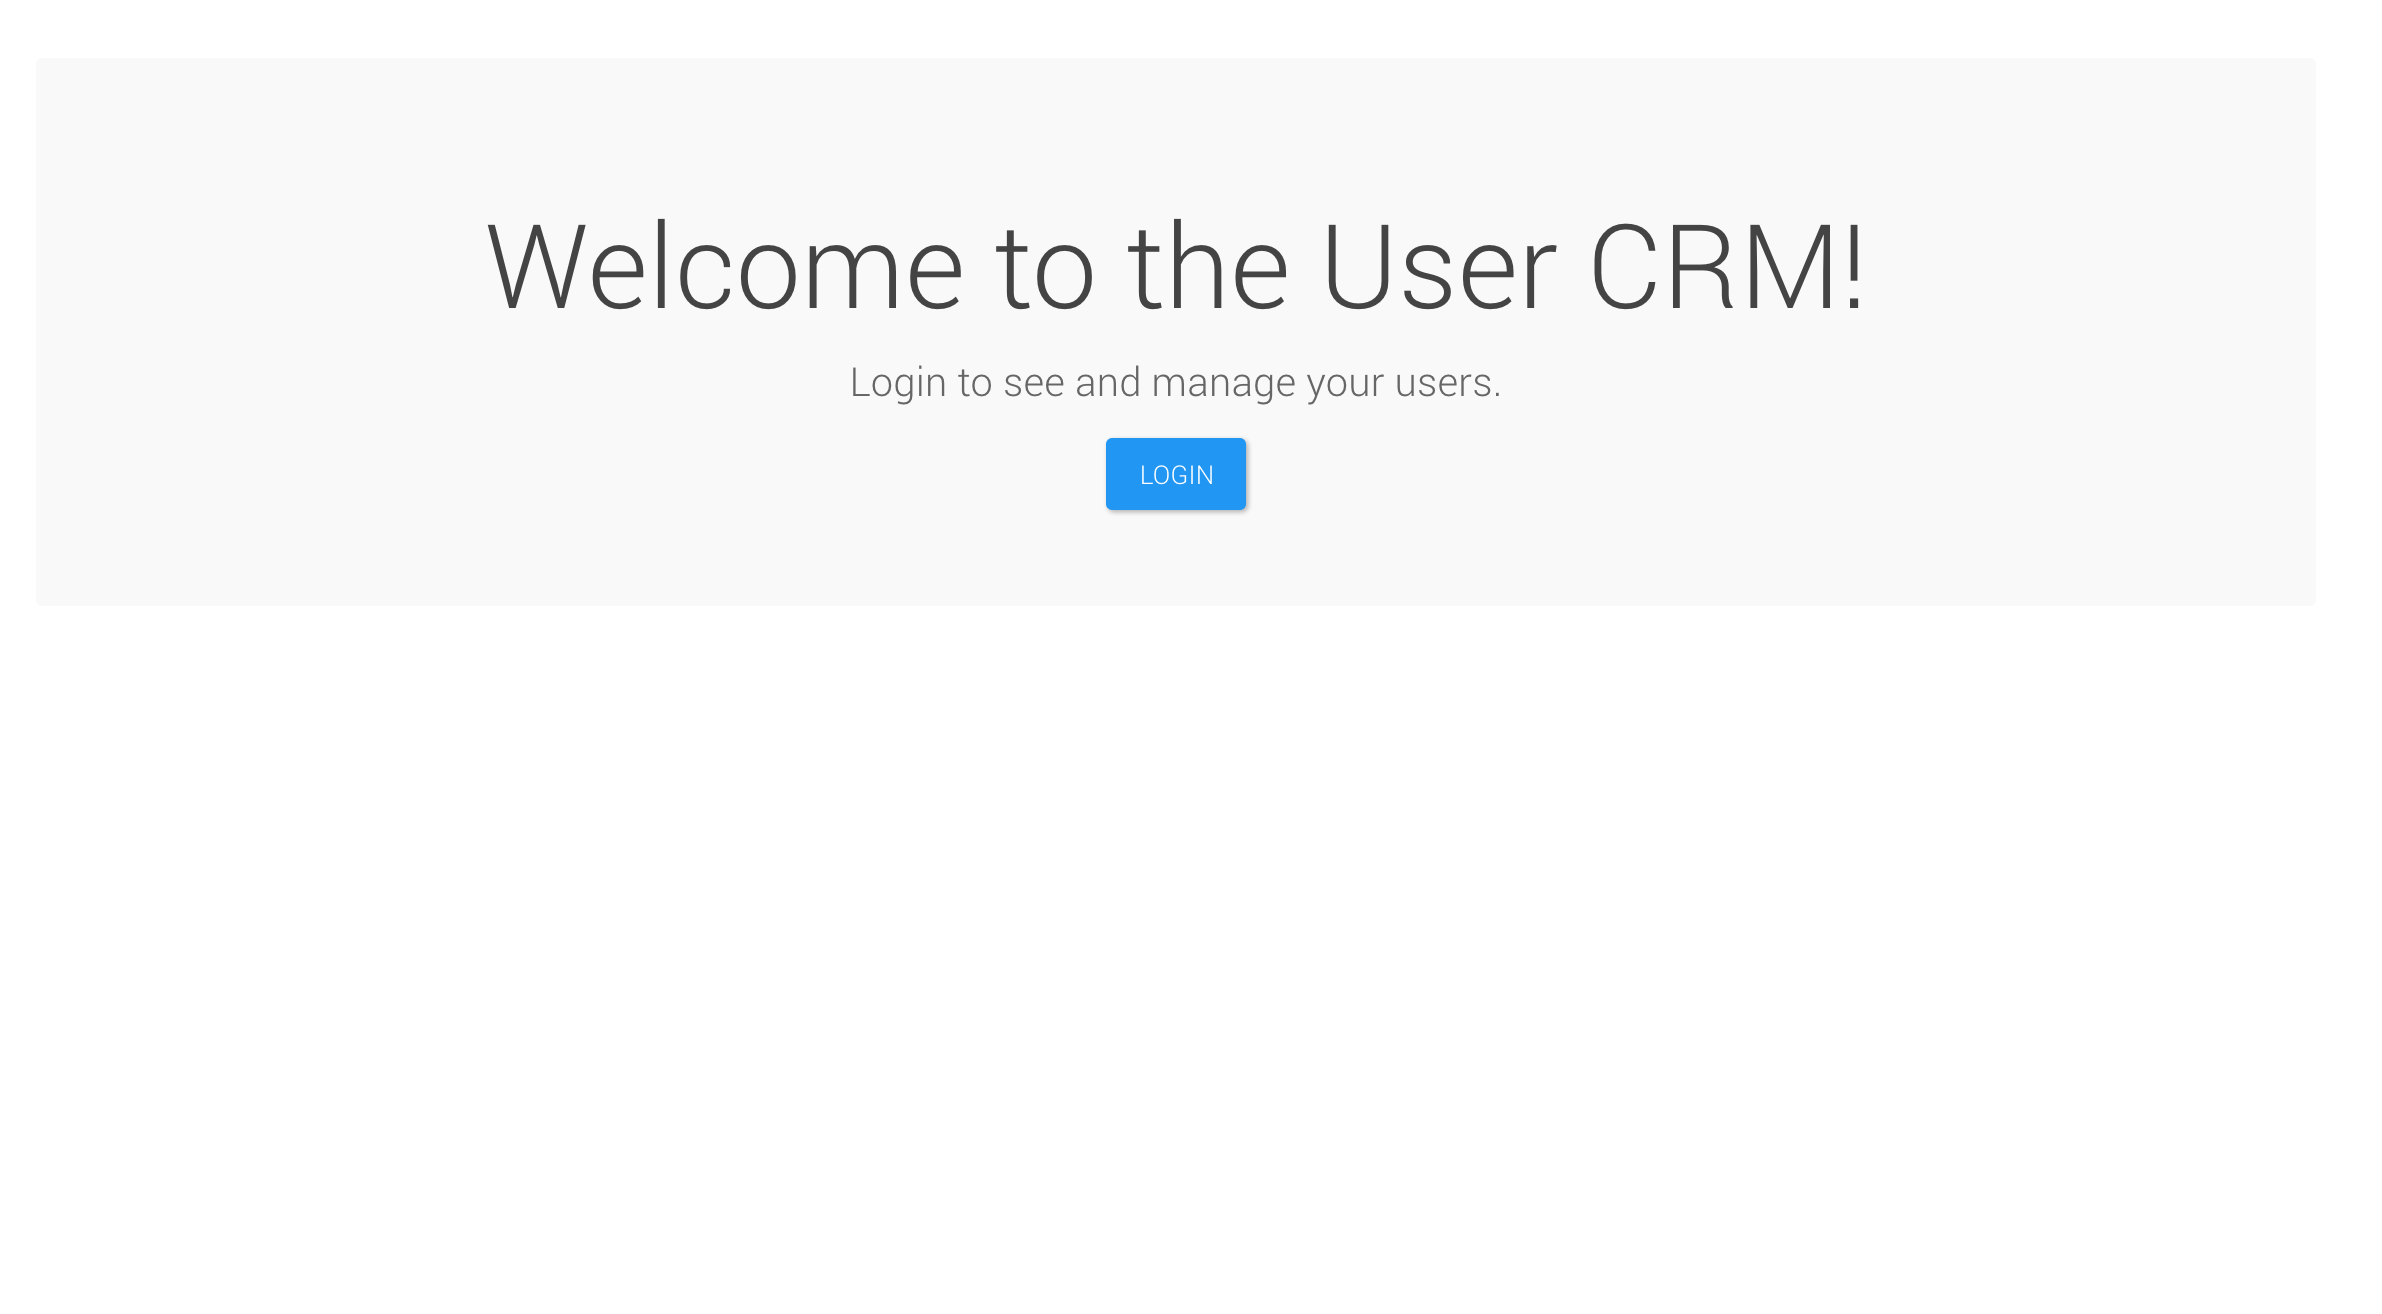
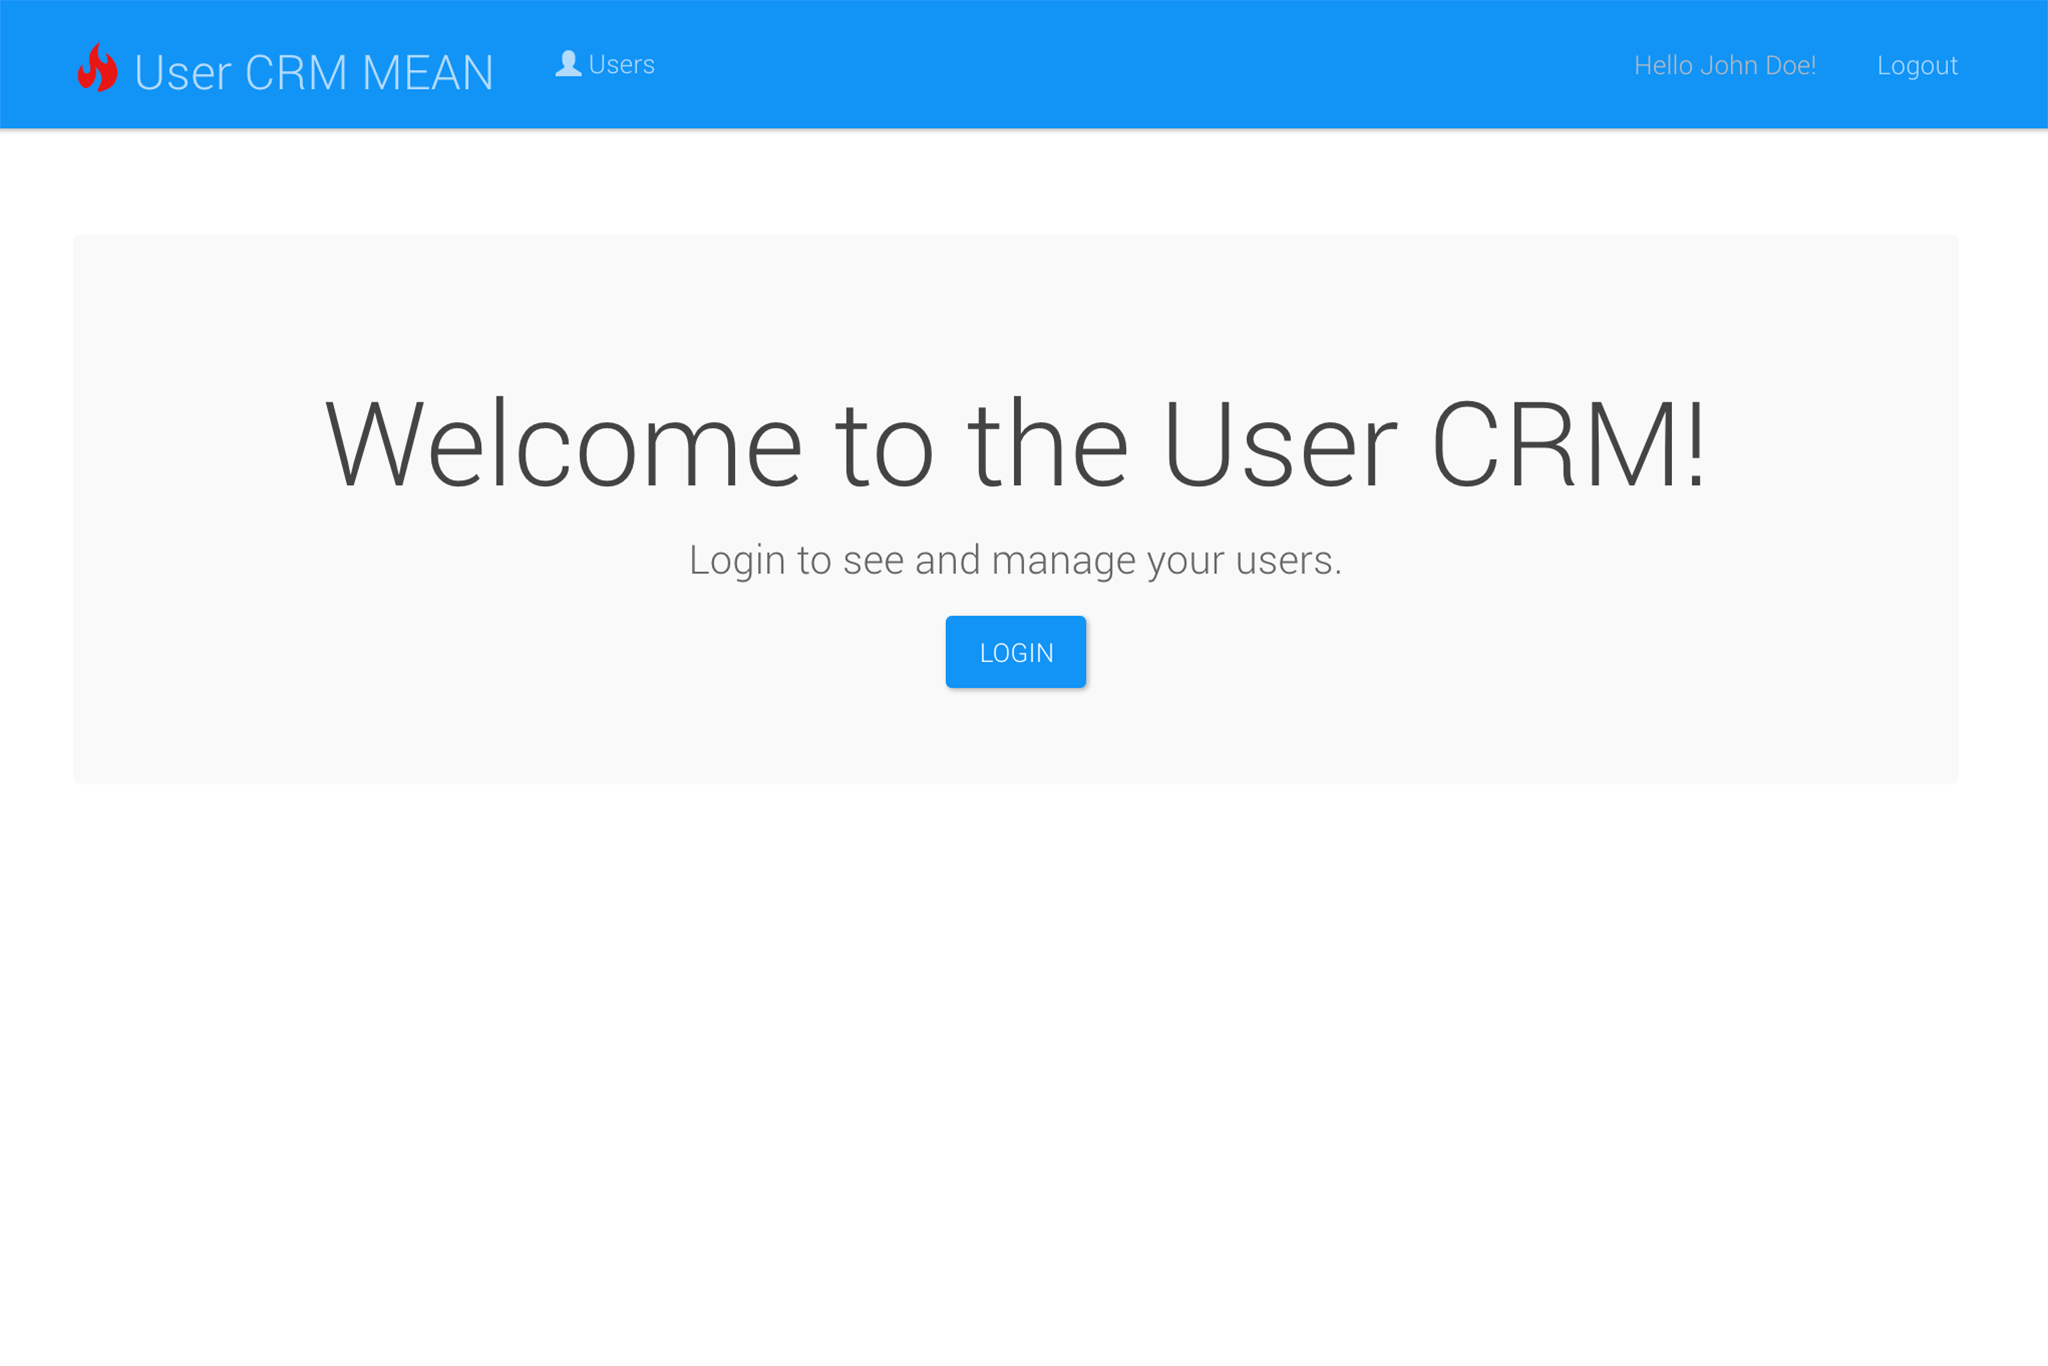
Updated resume link to public access. Added User CRM portfolio page.

Changed region(s): [[0.0, 0.0, 1.0, 0.0936], [0.1562, 0.2808, 0.8438, 0.5304], [0.1875, 0.156, 0.7812, 0.2496]]

diff --git a/portfolio/user-crm-mean-app.html b/portfolio/user-crm-mean-app.html
@@ -1,0 +1,136 @@
+<!DOCTYPE html>
+<html lang="en">
+    <head>
+        <meta charset="utf-8">
+        <meta http-equiv="X-UA-Compatible" content="IE=edge">
+        <meta name="viewport" content="width=device-width, initial-scale=1">
+        <meta name="description" content="">
+        <meta name="author" content="">
+        <link rel="shortcut icon" href="assets/ico/favicon.ico">
+
+        <title>CLINT LOSEE - User CRM MEAN App Portfolio Item</title>
+
+        <!-- Bootstrap core CSS -->
+        <link href="../assets/css/bootstrap.css" rel="stylesheet">
+
+        <!-- Custom styles -->
+        <link href="../assets/css/style.css" rel="stylesheet">
+        <link href="../assets/css/font-awesome.min.css" rel="stylesheet">
+
+        <!-- HTML5 shim and Respond.js IE8 support of HTML5 elements and media queries -->
+        <!--[if lt IE 9]>
+          <script src="https://oss.maxcdn.com/libs/html5shiv/3.7.0/html5shiv.js"></script>
+          <script src="https://oss.maxcdn.com/libs/respond.js/1.4.2/respond.min.js"></script>
+        <![endif]-->
+    </head>
+
+<body>
+    <header>
+        <!-- Static navbar -->
+        <div class="navbar navbar-default navbar-fixed-top" role="navigation">
+            <div class="container">
+                <div class="navbar-header">
+                    <button type="button" class="navbar-toggle" data-toggle="collapse" data-target=".navbar-collapse">
+                    <span class="sr-only">Toggle navigation</span>
+                    <span class="icon-bar"></span>
+                    <span class="icon-bar"></span>
+                    <span class="icon-bar"></span>
+                    </button>
+                    <a class="navbar-brand" href="../index.html">CLINT <span>LOSEE</span> <br /><span>DIGITAL</span> PORTFOLIO</a>
+                </div>
+                <div class="navbar-collapse collapse">
+                    <ul class="nav navbar-nav navbar-right">
+                        <li class="active"><a href="../index.html">Home</a></li>
+                        <li><a href="../about.html">About</a></li>
+                        <li><a href="../index.html#work">Portfolio</a></li>
+                        <li><a href="../index.html#skills">Skills</a></li>
+                    </ul>
+                </div><!-- .nav-collapse -->
+            </div>
+        </div>
+    </header>
+
+    <section id="workwrap">
+        <div class="container">
+    		<div class="row">
+    			<div class="col-lg-6 col-lg-offset-3">
+    				<h4>MEAN STACK APP FOR</h4>
+    				<h1>USER CRM MEAN APP</h1>
+    				<h4>ROLE: DEVELOPER</h4>
+    			</div>
+    		</div><!-- row -->
+        </div> <!-- container -->
+    </section><!-- workwrap -->
+
+    <section id="works">
+        <div class="container">
+        	<div class="row centered mt mb">
+        		<div class="col-lg-8 col-lg-offset-2">
+        			<h4>ABOUT THE PROJECT</h4>
+                    <hr />
+                    <p>This was a personal project to help me learn the MEAN stack and the process of developing a simple app built using MongoDB, Express, Angular, and NodeJS. It is a simple customer relationahip management application that allows you to login and logout, along with adding, editing, and deleting user information. It displays a list of all current users in a simple table that displays the id, name, and username. The site was also built with <a href="http://getbootstrap.com/" target="_blank">Bootstrap 3</a> using a material design stylesheet built on top of that.</p>
+                    <p>You can test run the site by logging in using the following sample information:<br><strong>Username:</strong> johndoe<br><strong>Password:</strong> password</p>
+        		</div>
+                   <div class="col-lg-10 col-lg-offset-1">
+                       <h2><a href="http://usercrm-closee.herokuapp.com" target="_blank"><i class="fa fa-link"></i> Visit Site</a></h2>
+                   </div>
+        		<div class="col-lg-10 col-lg-offset-1 mt">
+<!--        			<img class="img-responsive" src="../assets/img/pr01.jpg">-->
+                    <img class="img-responsive" src="../assets/img/portfolio/full/User-CRM-MEAN-App.png">
+        			<br>
+<!--        			<img class="img-responsive" src="../assets/img/pr02.jpg">-->
+                    <img class="img-responsive" src="../assets/img/portfolio/full/User-CRM-Users-Page.png">
+        		</div>
+
+        	</div><!-- row -->
+        </div><!-- container -->
+    </section>
+
+    <section id="social">
+        <div class="container">
+            <div class="row centered">
+                <div class="col-sm-6 col-md-2 col-md-offset-1">
+                    <a href="http://github.com/clintlosee"><i class="fa fa-github"></i></a>
+                </div>
+                <div class="col-sm-6 col-md-2">
+                    <a href="http://facebook.com/clint.losee"><i class="fa fa-facebook"></i></a>
+                </div>
+                <div class="col-sm-6 col-md-2">
+                    <a href="http://twitter.com/ClintLosee"><i class="fa fa-twitter"></i></a>
+                </div>
+                <div class="col-sm-6 col-md-2">
+                    <a href="https://www.linkedin.com/pub/clint-losee/46/585/a20"><i class="fa fa-linkedin"></i></a>
+                </div>
+                <div class="col-sm-6 col-md-2">
+                    <a href="http://instagram.com/clintlosee"><i class="fa fa-instagram"></i></a>
+                </div>
+            </div><!-- row -->
+        </div><!-- container -->
+    </section><!-- social -->
+
+    <footer id="footerwrap">
+    	<div class="container">
+    		<div class="row centered">
+    			<div class="col-lg-4">
+                    <p><b>WEB DEVELOPER</b> &amp; <b>DIGITAL MEDIA PROFESSSIONAL</b></p>
+    			</div>
+
+    			<div class="col-lg-4">
+    				<p>Living in American Fork, UT</p>
+    			</div>
+    			<div class="col-lg-4">
+    				<p>clint.losee [at] gmail.com</p>
+    			</div>
+    		</div>
+    	</div>
+    </footer><!-- footerwrap -->
+
+    <a href="#" class="cl-top">Top</a>
+
+    <!-- JavaScript
+    ================================================== -->
+    <script src="https://ajax.googleapis.com/ajax/libs/jquery/1.11.0/jquery.min.js"></script>
+    <script src="../assets/js/bootstrap.min.js"></script>
+    <script src="../assets/js/main.js"></script>
+</body>
+</html>

diff --git a/index.html b/index.html
@@ -57,7 +57,7 @@
     					<h4>HELLO, MY NAME IS</h4>
     					<h1>CLINT LOSEE</h1>
     					<h4>WEB DEVELOPER &amp; DIGITAL MEDIA PROFESSIONAL</h4>
-                        <a href="https://drive.google.com/open?id=0B6Oh19B81MAEel96NThGUWFubTg" class="button-border resume" target="_blank">Resume</a>
+                        <a href="https://drive.google.com/file/d/0B6Oh19B81MAEel96NThGUWFubTg/view?usp=sharing" class="button-border resume" target="_blank">Resume</a>
     				</div>
     			</div><!-- row -->
     	    </div> <!-- container -->
@@ -79,8 +79,7 @@
     				<a href="http://www.titlewest.com"><img src="assets/img/portfolio/titlewest-folio.png" class="img-responsive"></a>
     			</div>
                 <div class="col-lg-4 col-sm-6 gallery">
-                    <a href="http://usercrm-closee.herokuapp.com"><img src="assets/img/portfolio/user-crm-mean-app-folio.png" class="img-responsive"></a>
-<!--                    <a href="portfolio/user-crm-mean-app.html"><img src="assets/img/portfolio/user-crm-mean-app-folio.png" class="img-responsive"></a>-->
+                    <a href="portfolio/user-crm-mean-app.html"><img src="assets/img/portfolio/user-crm-mean-app-folio.png" class="img-responsive"></a>
                 </div>
                 <div class="col-lg-4 col-sm-6 gallery">
     				<a href="http://clphotov1.pancakeapps.com/"><img src="assets/img/portfolio/clintloseephoto-folio.png" class="img-responsive"></a>
@@ -265,7 +264,7 @@
     				<p>Living in American Fork, UT</p>
     			</div>
     			<div class="col-lg-4">
-    				<p>clint.losee@gmail.com</p>
+                    <p>clint.losee [at] gmail.com</p>
     			</div>
     		</div>
     	</div>

diff --git a/assets/css/style.css b/assets/css/style.css
@@ -3,9 +3,8 @@
  * URL: http://clintlosee.github.io
  *
  * Project Name: Portfolio
- * Version: 1.6
- * Date: 09-21-2015
- * URL:
+ * Version: 1.7
+ * Date: 12-17-2015
  */
 
 
@@ -18,14 +17,14 @@
 
 
 ::-moz-selection {
-    background: #1b45fa; /* #f2c2c9;*/
-    color: #efefef; /* #a4003a;*/
+    background: #ff6600; /* #f2c2c9;*/
+    color: #ffffff; /* #a4003a;*/
     text-shadow: none;
 }
 
 ::selection {
-    background: #1b45fa; /* #f2c2c9;*/
-    color: #efefef; /* #a4003a;*/
+    background: #ff6600; /* #f2c2c9;*/
+    color: #ffffff; /* #a4003a;*/
     text-shadow: none;
 }
 
@@ -68,6 +67,19 @@ body {
 h1, h2, h3, h4, h5, h6 {
     font-weight: 700;
     color: #4a4a4a;
+}
+
+a {
+    color: #FF6600;
+    -ms-transition: all 0.2s ease-in;
+    -o-transition: all 0.2s ease-in;
+    -moz-transition: all 0.2s ease-in;
+    -webkit-transition: all 0.2s ease-in;
+    transition: all 0.2s ease-in;
+}
+a:hover {
+    color: #1c09b2;
+    text-decoration: none;
 }
 
 .navbar-brand {

diff --git a/assets/js/main.js b/assets/js/main.js
@@ -1,4 +1,4 @@
-jQuery(document).ready(function($){
+$(function() {
     var offset = 300,
         offset_opacity = 1200,
         scroll_top_duration = 700,
@@ -19,4 +19,4 @@ jQuery(document).ready(function($){
             scrollTop: 0,
             }, scroll_top_duration);
     });
-})
+});

diff --git a/about.html b/about.html
@@ -105,7 +105,7 @@
         				<p>Living in American Fork, UT</p>
         			</div>
         			<div class="col-lg-4">
-        				<p>clint.losee@gmail.com</p>
+                        <p>clint.losee [at] gmail.com</p>
         			</div>
         		</div>
         	</div>
